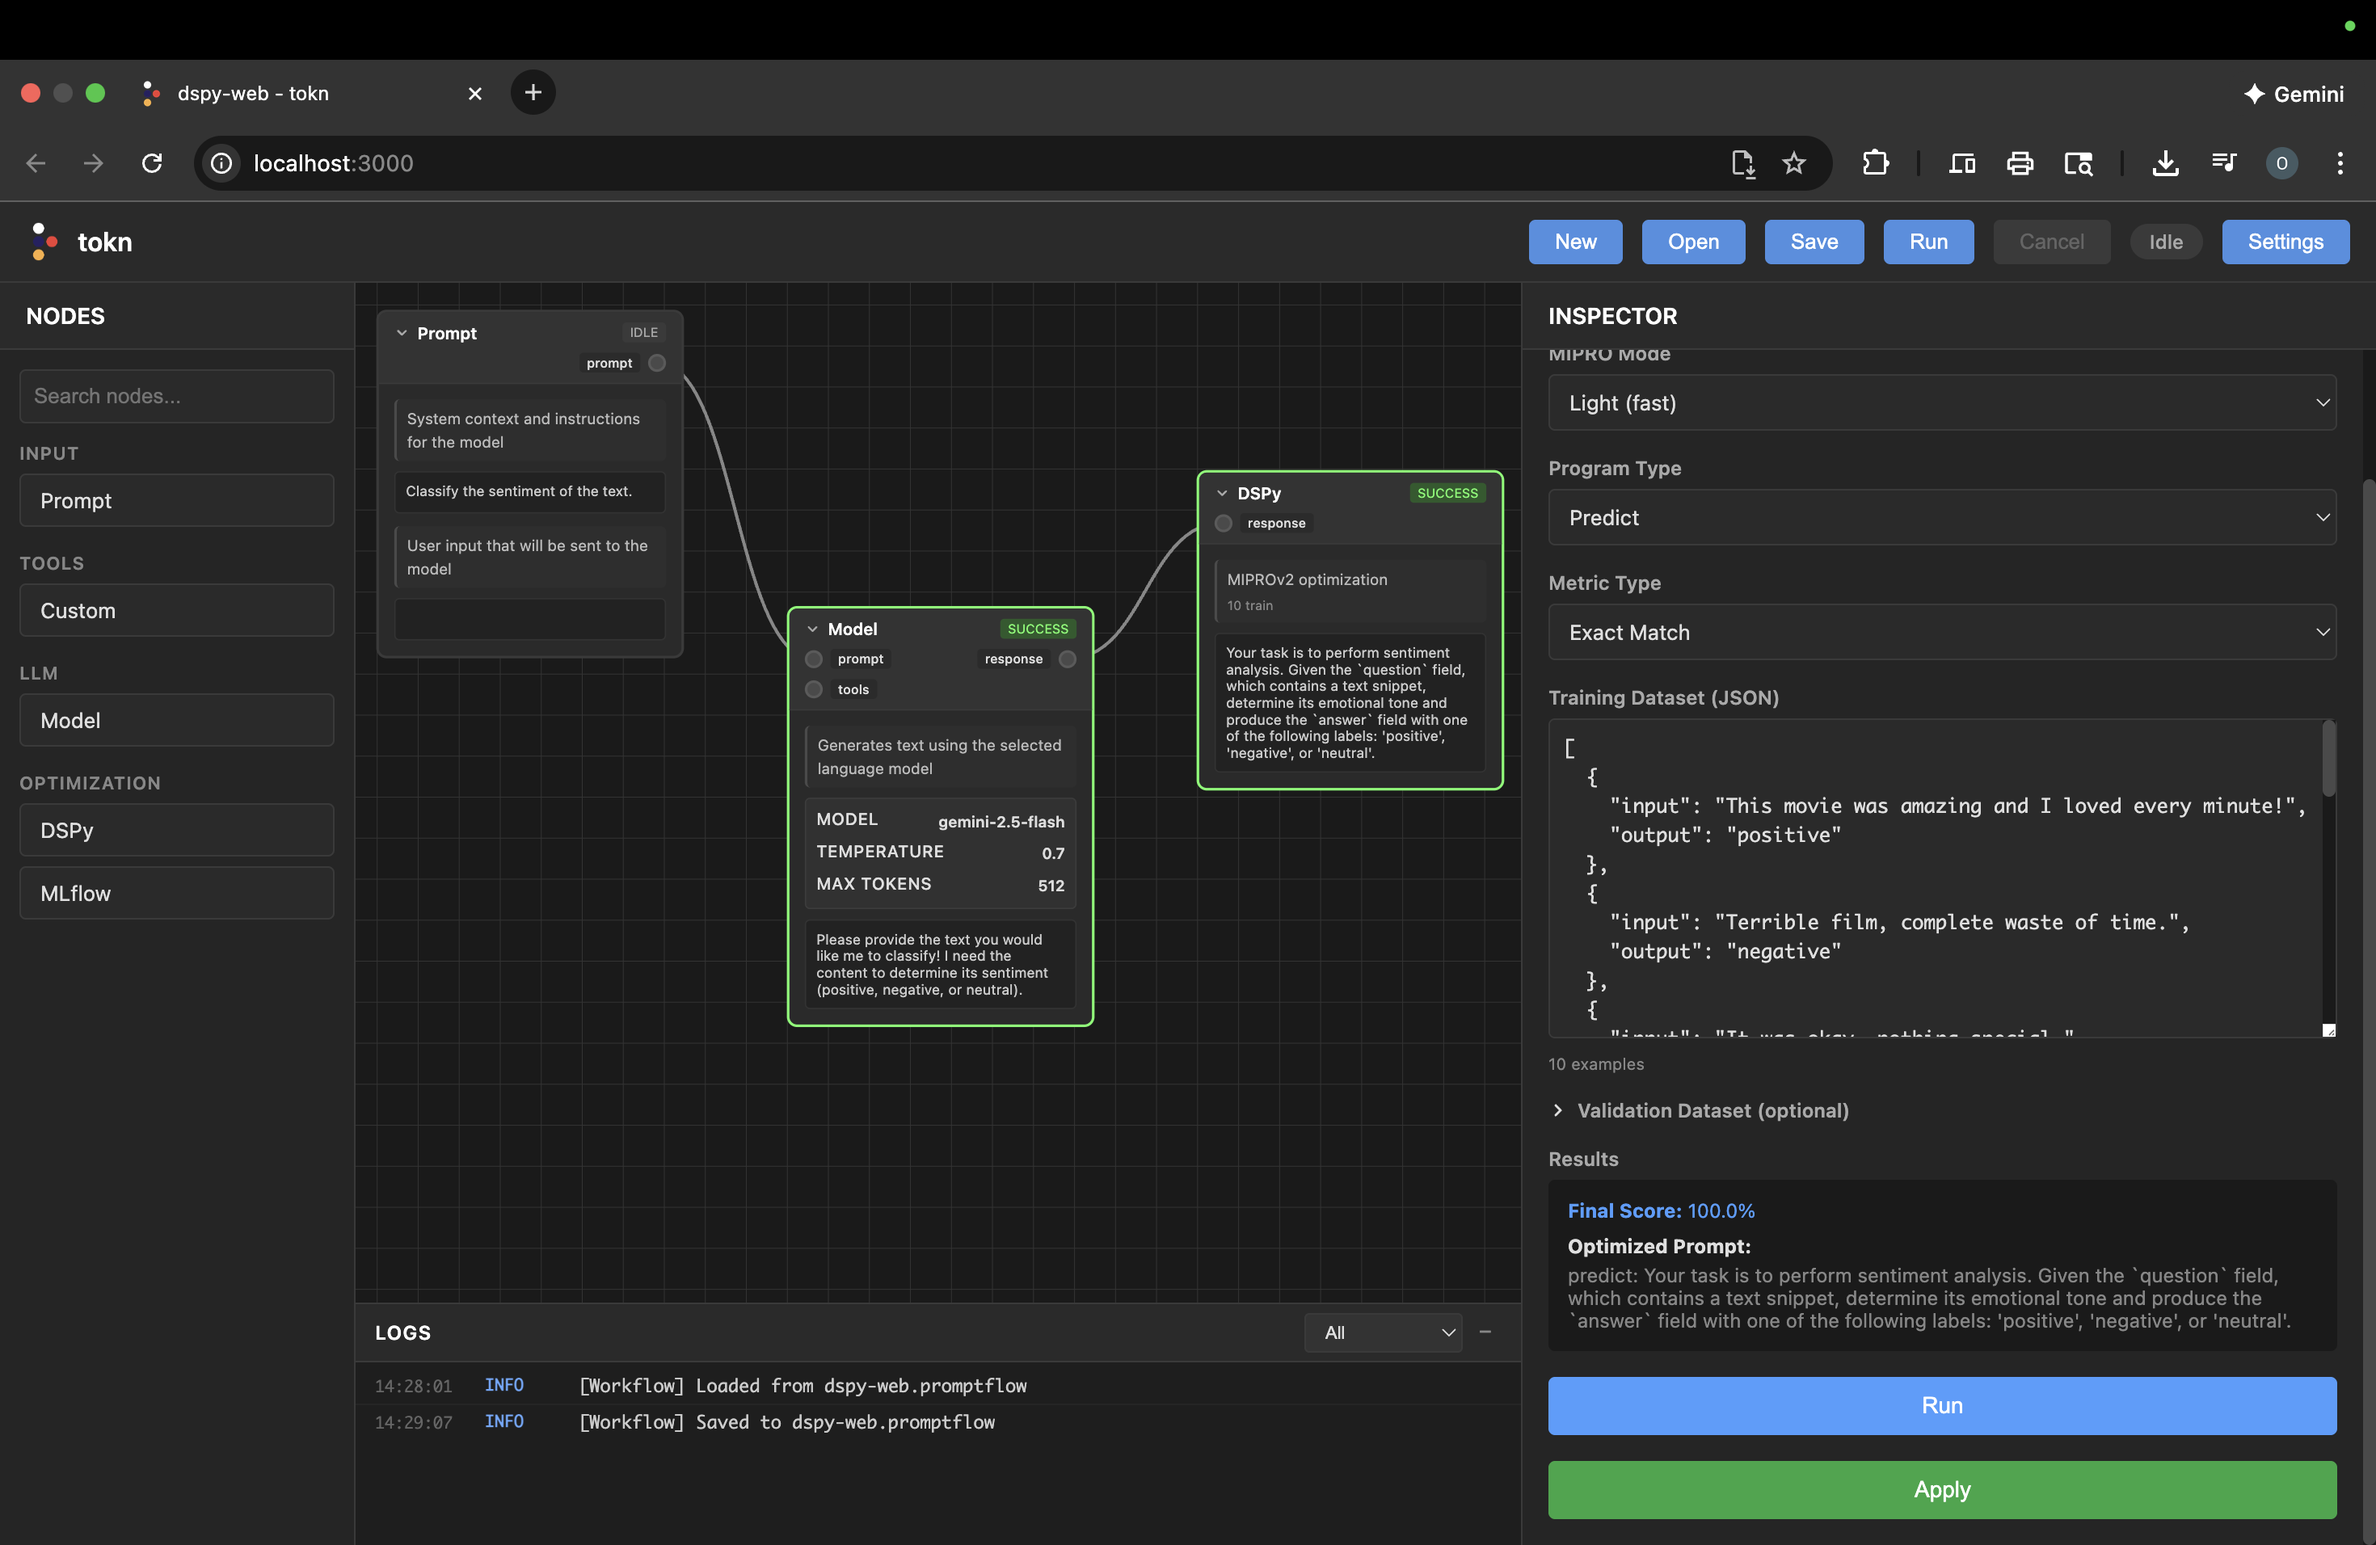
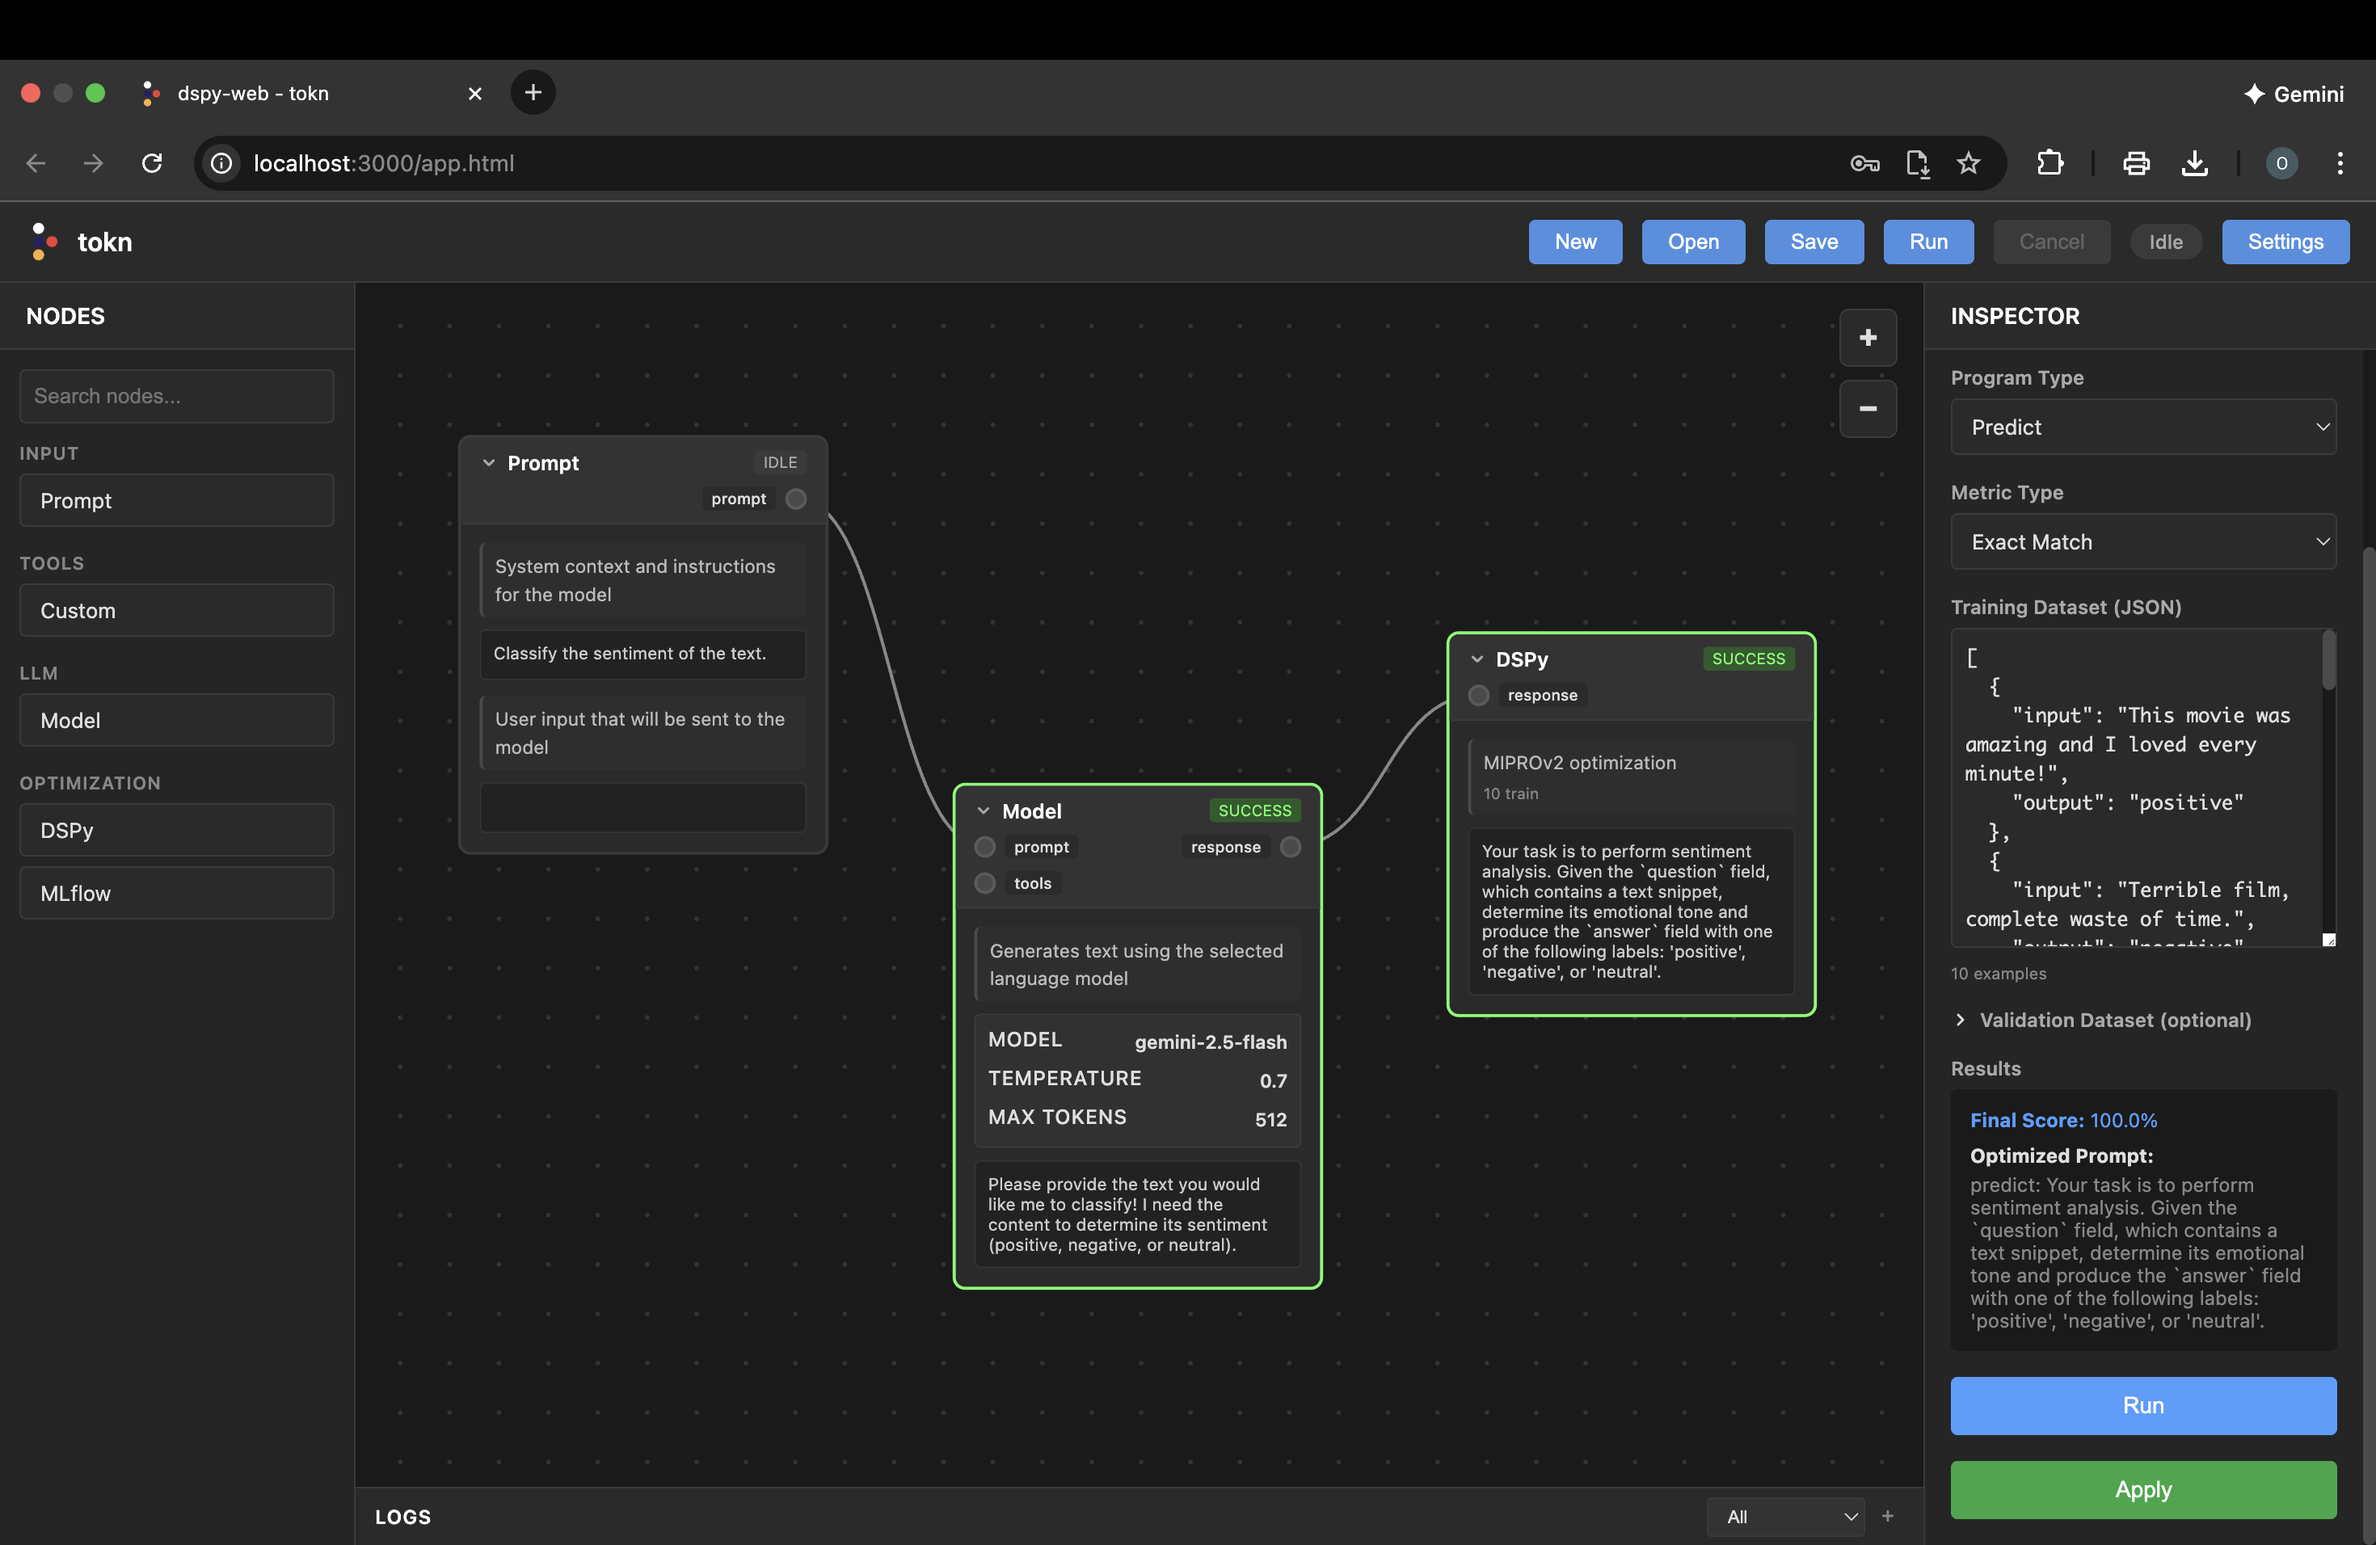
launch web app in new tab

diff --git a/index.html b/index.html
@@ -4,7 +4,7 @@
     <meta charset="UTF-8">
     <meta name="viewport" content="width=device-width, initial-scale=1.0">
     <meta name="description" content="tokn - Visual flow-based IDE for prompt engineering, testing, and optimization with Large Language Models">
-    <title>tokn - Visual Prompt Engineering IDE</title>
+    <title>tokn</title>
     <link rel="icon" type="image/png" href="/logo-white.png">
     <link rel="stylesheet" href="landing/styles.css">
 </head>
@@ -22,7 +22,7 @@
                         <path d="M12 0c-6.626 0-12 5.373-12 12 0 5.302 3.438 9.8 8.207 11.387.599.111.793-.261.793-.577v-2.234c-3.338.726-4.033-1.416-4.033-1.416-.546-1.387-1.333-1.756-1.333-1.756-1.089-.745.083-.729.083-.729 1.205.084 1.839 1.237 1.839 1.237 1.07 1.834 2.807 1.304 3.492.997.107-.775.418-1.305.762-1.604-2.665-.305-5.467-1.334-5.467-5.931 0-1.311.469-2.381 1.236-3.221-.124-.303-.535-1.524.117-3.176 0 0 1.008-.322 3.301 1.23.957-.266 1.983-.399 3.003-.404 1.02.005 2.047.138 3.006.404 2.291-1.552 3.297-1.23 3.297-1.23.653 1.653.242 2.874.118 3.176.77.84 1.235 1.911 1.235 3.221 0 4.609-2.807 5.624-5.479 5.921.43.372.823 1.102.823 2.222v3.293c0 .319.192.694.801.576 4.765-1.589 8.199-6.086 8.199-11.386 0-6.627-5.373-12-12-12z"/>
                     </svg>
                 </a>
-                <a href="app.html" class="btn-primary">Launch</a>
+                <a href="app.html" class="btn-primary" target="_blank">Launch</a>
             </div>
         </div>
     </nav>

diff --git a/src/App.jsx b/src/App.jsx
@@ -31,7 +31,7 @@ function App() {
       {/* Top Action Bar */}
       <div id="topBar" className="top-bar">
         <div className="top-bar-left">
-          <img src="/assets/logo-white.png" alt="tokn" className="app-logo" />
+          <img src="/logo-white.png" alt="tokn" className="app-logo" />
           <h1 className="app-title">tokn</h1>
         </div>
         <div className="top-bar-right">

diff --git a/app.html b/app.html
@@ -4,7 +4,7 @@
     <meta charset="UTF-8">
     <meta http-equiv="X-UA-Compatible" content="IE=edge">
     <meta name="viewport" content="width=device-width, initial-scale=1.0">
-    <link rel="icon" type="image/png" href="/assets/logo-white.png">
+    <link rel="icon" type="image/png" href="/logo-white.png">
     <title>tokn</title>
 </head>
 <body>
